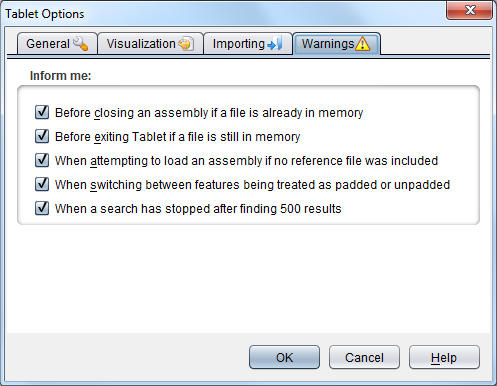
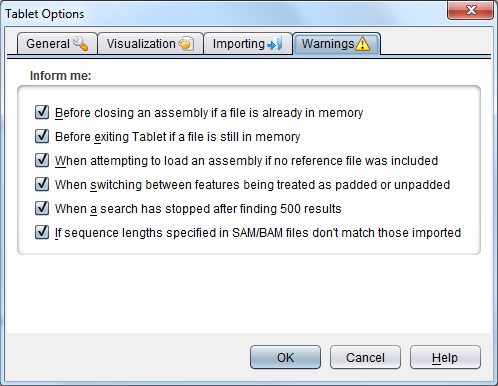
- NEW: Table now warns if the reference length expected by a BAM file differs from that of the actual reference imported by the user.

diff --git a/src/tablet/gui/dialog/prefs/NBWarningPanel.java b/src/tablet/gui/dialog/prefs/NBWarningPanel.java
@@ -26,12 +26,14 @@ class NBWarningPanel extends JPanel
 		RB.setText(warnNoRef, "gui.dialog.prefs.NBWarningPanel.warnNoRef");
 		RB.setText(warnOnPaddedFeatureToggle, "gui.dialog.prefs.NBWarningPanel.warnOnPaddedFeatureToggle");
 		RB.setText(warnSearchLimitExceeded, "gui.dialog.prefs.NBWarningPanel.warnSearchLimitExceeded");
+		RB.setText(warnRefLengths, "gui.dialog.prefs.NBWarningPanel.warnRefLengths");
 
 		warnOnClose.setSelected(Prefs.guiWarnOnClose);
 		warnOnExit.setSelected(Prefs.guiWarnOnExit);
 		warnNoRef.setSelected(Prefs.guiWarnNoRef);
 		warnOnPaddedFeatureToggle.setSelected(Prefs.guiWarnOnPaddedFeatureToggle);
 		warnSearchLimitExceeded.setSelected(Prefs.guiWarnSearchLimitExceeded);
+		warnRefLengths.setSelected(Prefs.guiWarnRefLengths);
     }
 
 	public void applySettings()
@@ -41,6 +43,7 @@ class NBWarningPanel extends JPanel
 		Prefs.guiWarnNoRef = warnNoRef.isSelected();
 		Prefs.guiWarnOnPaddedFeatureToggle = warnOnPaddedFeatureToggle.isSelected();
 		Prefs.guiWarnSearchLimitExceeded = warnSearchLimitExceeded.isSelected();
+		Prefs.guiWarnRefLengths = warnRefLengths.isSelected();
 	}
 
 
@@ -58,6 +61,7 @@ class NBWarningPanel extends JPanel
         warnOnPaddedFeatureToggle = new javax.swing.JCheckBox();
         warnNoRef = new javax.swing.JCheckBox();
         warnSearchLimitExceeded = new javax.swing.JCheckBox();
+        warnRefLengths = new javax.swing.JCheckBox();
 
         panel.setBorder(javax.swing.BorderFactory.createTitledBorder("Inform me:"));
 
@@ -71,6 +75,8 @@ class NBWarningPanel extends JPanel
 
         warnSearchLimitExceeded.setText("When a search has stopped after finding 500 results");
 
+        warnRefLengths.setText("If sequence lengths specified in SAM/BAM files don't match those imported");
+
         javax.swing.GroupLayout panelLayout = new javax.swing.GroupLayout(panel);
         panel.setLayout(panelLayout);
         panelLayout.setHorizontalGroup(
@@ -82,8 +88,9 @@ class NBWarningPanel extends JPanel
                     .addComponent(warnOnExit)
                     .addComponent(warnNoRef)
                     .addComponent(warnOnPaddedFeatureToggle)
-                    .addComponent(warnSearchLimitExceeded))
-                .addContainerGap(16, Short.MAX_VALUE))
+                    .addComponent(warnSearchLimitExceeded)
+                    .addComponent(warnRefLengths))
+                .addContainerGap(javax.swing.GroupLayout.DEFAULT_SIZE, Short.MAX_VALUE))
         );
         panelLayout.setVerticalGroup(
             panelLayout.createParallelGroup(javax.swing.GroupLayout.Alignment.LEADING)
@@ -96,8 +103,11 @@ class NBWarningPanel extends JPanel
                 .addComponent(warnNoRef)
                 .addPreferredGap(javax.swing.LayoutStyle.ComponentPlacement.RELATED)
                 .addComponent(warnOnPaddedFeatureToggle)
-                .addPreferredGap(javax.swing.LayoutStyle.ComponentPlacement.RELATED, javax.swing.GroupLayout.DEFAULT_SIZE, Short.MAX_VALUE)
-                .addComponent(warnSearchLimitExceeded))
+                .addPreferredGap(javax.swing.LayoutStyle.ComponentPlacement.RELATED)
+                .addComponent(warnSearchLimitExceeded)
+                .addPreferredGap(javax.swing.LayoutStyle.ComponentPlacement.RELATED)
+                .addComponent(warnRefLengths)
+                .addContainerGap(javax.swing.GroupLayout.DEFAULT_SIZE, Short.MAX_VALUE))
         );
 
         javax.swing.GroupLayout layout = new javax.swing.GroupLayout(this);
@@ -114,7 +124,7 @@ class NBWarningPanel extends JPanel
             .addGroup(layout.createSequentialGroup()
                 .addContainerGap()
                 .addComponent(panel, javax.swing.GroupLayout.PREFERRED_SIZE, javax.swing.GroupLayout.DEFAULT_SIZE, javax.swing.GroupLayout.PREFERRED_SIZE)
-                .addContainerGap(18, Short.MAX_VALUE))
+                .addContainerGap(javax.swing.GroupLayout.DEFAULT_SIZE, Short.MAX_VALUE))
         );
     }// </editor-fold>//GEN-END:initComponents
 
@@ -124,6 +134,7 @@ class NBWarningPanel extends JPanel
     private javax.swing.JCheckBox warnOnClose;
     private javax.swing.JCheckBox warnOnExit;
     private javax.swing.JCheckBox warnOnPaddedFeatureToggle;
+    private javax.swing.JCheckBox warnRefLengths;
     private javax.swing.JCheckBox warnSearchLimitExceeded;
     // End of variables declaration//GEN-END:variables
 }

diff --git a/src/tablet/io/BamFileReader.java b/src/tablet/io/BamFileReader.java
@@ -30,6 +30,8 @@ public class BamFileReader extends TrackableReader
 	// Status tracks what's happening (0=get ref, 1=get bai, 2=open bam)
 	private static int status = 0;
 
+	private boolean refLengthsOK = true;
+
 	BamFileReader()
 	{
 	}
@@ -91,12 +93,15 @@ public class BamFileReader extends TrackableReader
 
 		if (okToRun)
 		{
-			BamFileHandler bamHandler = new BamFileHandler(readCache, bamFile, baiFile, assembly);
 			status = 2;
-			bamHandler.openBamFile(contigHash);
-			assembly.setBamHandler(bamHandler);
 
+			BamFileHandler bamHandler = new BamFileHandler(readCache, bamFile, baiFile, assembly);
+			bamHandler.openBamFile(contigHash);
+
+			assembly.setBamHandler(bamHandler);
 			assembly.setName(bamFile.getName());
+
+			refLengthsOK = bamHandler.refLengthsOK();
 		}
 	}
 
@@ -167,4 +172,7 @@ public class BamFileReader extends TrackableReader
 
 		return "";
 	}
+
+	protected boolean refLengthsOK()
+		{ return refLengthsOK; }
 }

diff --git a/src/tablet/gui/Commands.java b/src/tablet/gui/Commands.java
@@ -13,6 +13,7 @@ import tablet.data.*;
 import tablet.gui.dialog.*;
 import tablet.gui.viewer.*;
 import tablet.io.*;
+import javax.swing.*;
 
 import scri.commons.gui.*;
 
@@ -81,6 +82,19 @@ public class Commands
 			File file = new File(filenames[0]);
 			if (getFeatureFile(file) != null)
 				importFeatures(getFeatureFile(file).getPath(), false);
+		}
+
+		// Pop up a warning if the ref lengths don't match
+		if (!assemblyFileHandler.refLengthsOK() && Prefs.guiWarnRefLengths)
+		{
+			String msg = RB.getString("gui.commands.fileOpen.refLengthsOK");
+			JCheckBox chkbox = new JCheckBox();
+			RB.setText(chkbox, "gui.commands.fileOpen.checkWarning");
+
+			String[] options = new String[] { RB.getString("gui.text.close") };
+
+			int response = TaskDialog.show(msg, TaskDialog.WAR, 0, chkbox, options);
+			Prefs.guiWarnRefLengths = !chkbox.isSelected();
 		}
 	}
 

diff --git a/src/tablet/io/BamFileHandler.java b/src/tablet/io/BamFileHandler.java
@@ -24,6 +24,7 @@ public class BamFileHandler
 	private int readID;
 
 	private boolean okToRun = true;
+	private boolean refLengthsOK = true;
 
 	BamFileHandler(IReadCache readCache, AssemblyFile bamFile, AssemblyFile baiFile, Assembly assembly)
 	{
@@ -176,9 +177,13 @@ public class BamFileHandler
 					int cLength = contigToAdd.getConsensus().length();
 
 					if (length != cLength)
+					{
 						System.out.println("Contig " + contigToAdd.getName()
 							+ " lengths do not match: " + cLength + " (ref "
 							+ "file), " + length + " (BAM file)");
+
+						refLengthsOK = false;
+					}
 				}
 			}
 
@@ -189,5 +194,8 @@ public class BamFileHandler
 	}
 
 	public SAMFileReader getBamReader()
-		{	return bamReader;	}
+		{ return bamReader; }
+
+	boolean refLengthsOK()
+		{ return refLengthsOK; }
 }

diff --git a/src/tablet/gui/Prefs.java b/src/tablet/gui/Prefs.java
@@ -61,6 +61,9 @@ public class Prefs extends XMLPreferences
 	// The warning shown when toggling between padded/unpadded feature values
 	public static boolean guiWarnOnPaddedFeatureToggle = true;
 
+	// Warn when SAM/BAM expected reference lengths don't match what's provided
+	public static boolean guiWarnRefLengths = true;
+
 	// A list of previously accessed assembly documents
 	public static String assRecentDocs = "";
 	// A list of previously accessed referebce documents

diff --git a/src/tablet/io/AssemblyFileHandler.java b/src/tablet/io/AssemblyFileHandler.java
@@ -28,6 +28,7 @@ public class AssemblyFileHandler extends SimpleJob
 	private String cacheid = SystemUtils.createGUID(24);
 
 	private Assembly assembly;
+	private boolean refLengthsOK = true;
 
 	public AssemblyFileHandler(String[] filenames, File cacheDir)
 	{
@@ -209,4 +210,7 @@ public class AssemblyFileHandler extends SimpleJob
 
 		return aFile.getType();
 	}
+
+	public boolean refLengthsOK()
+		{ return reader.refLengthsOK(); }
 }

diff --git a/src/tablet/io/TrackableReader.java b/src/tablet/io/TrackableReader.java
@@ -153,4 +153,7 @@ abstract class TrackableReader extends SimpleJob
 		else
 			return df.format(kbPerSec) + " KB/sec";
 	}
+
+	protected boolean refLengthsOK()
+		{ return true; }
 }
